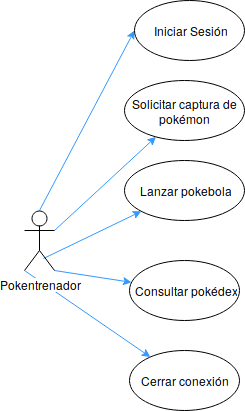
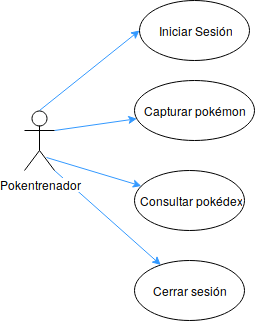
--

diff --git a/p02/documentos/proyecto2.tex b/p02/documentos/proyecto2.tex
@@ -48,9 +48,8 @@ Esta aplicación fue creada con el objetivo de implementar un protocolo de la ca
      Actor & Caso de uso & Descripción \\
      \hline
      Pokentrenador & Iniciar sesión & El usuario se conecta con el servidor y se le muestra el menú principal de la aplicación \\ \hline
-     Pokentrenador & Solicitar captura de pokémon & El usuario solicita al servidor que le muestre un pokémon para capturar \\ \hline
+     Pokentrenador & Capturar pokémon & El usuario solicita al servidor que le muestre un pokémon y decide si intenta capturarlo (con un número finito de intentos) o no\\ \hline
      Pokentrenador & Consultar pokedex & El usuario hace una consulta para buscar un pokémon en su pokédex \\ \hline
-     Pokentrenador & Lanzar pokebola & El usuario intenta capturar el pokémon que le mostró el servidor, con un número de intentos límitado \\ \hline
      Pokentrenador & Cerrar sesión & Cierra la conexión con el servidor \\
      \hline
    \end{tabular}
@@ -176,14 +175,124 @@ Máquina de Estados Finita para el protocolo de la capa de aplicación.
 \subsection{Especificación del ambiente de desarrollo}
 %revisar versiones
 \begin{tabular}{l r l r}
-\textbf{Lenguaje de programación:} & Java & \textbf{versión:} & 1.8 \\
-\textbf{Herramienta de construcción de software:} & Apache Ant & \textbf{versión:} & 1.9.9 \\
-\textbf{Sistema manejador de base de  datos:} & sqlite & \textbf{versión:} & 2.8.17 \\
+  \textbf{Lenguaje de programación:} & Java & \textbf{versión:} & 1.8 \\
+  \textbf{Herramienta de construcción de software:} & Apache Ant & \textbf{versión:} & 1.9.9 \\
+  \textbf{Sistema Manejador de Base de Datos:} & sqlite & \textbf{versión:} & 2.8.17 \\
+  \textbf{Driver de conectividad JDBC:} & sqlite-jdbc & \textbf{versión:}3,16,1\\
+  \textbf{Pruebas Unitarias:} & JUnit & Hamcrest \\
 \end{tabular}
-  \subsection{Diagrama de clases (Maybe no, pero al menos mención de la estructura programática del proyecto, lo que sea más fácil jijijijijijij)}
+
+\newpage
+\subsection{Estructura del proyecto}  
+\begin{verbatim}
+.
+|- proyecto2.jar
+|- build
+|- - ConexionBD.class
+|- - redes
+|- - - MultiThreadPrueba.class
+|- - - Mensaje12.class
+|- - - Mensaje21.class
+|- - - ConexionBD.class
+|- - - Mensaje24.class
+|- - - Estado.class
+|- - - ClienteHilo.class
+|- - - FabricaMensaje.class
+|- - - MensajeGenerico.class
+|- - - Pokentrenador$1.class
+|- - - Mensaje15.class
+|- - - Pokentrenador.class
+|- - - Controlador.class
+|- - - test
+|- - - - ControladorTest.class
+|- - - Mensaje10.class
+|- - - Pokeservidor.class
+|- - - Mensaje22.class
+|- - - Proyecto2.class
+|- - - MultiThreadPrueba$Hilo.class
+|- - - Imagen.class
+|- - - Mensaje23.class
+|- - - ClienteHilo$1.class
+|- static
+|- - requirements
+|- - poke_script.py
+|- man
+|- - proyecto2.1
+|- - proyecto2.1.gz
+|- documentos
+|- - proyecto2.out
+|- - proyecto2.log
+|- - graphic
+- - - 
+- - proyecto2.toc
+- - proyecto2.tex
+- - proyecto2.pdf
+- - proyecto2.aux
+- doc
+- - proyecto2.out
+- - proyecto2.log
+- - proyecto2.toc
+- - proyecto2.pdf
+- - proyecto2.aux
+- src
+- - sql
+- - - poke_app_db.sql
+- - redes
+- - - Mensaje10.java
+- - - Estado.java
+- - - MultiThreadPrueba.java
+- - - Pokeservidor.java
+- - - MensajeGenerico.java
+- - - Mensaje15.java
+- - - Imagen.java
+- - - Controlador.java
+- - - Pokentrenador.java
+- - - ClienteHilo.java
+- - - ConexionBD.java
+- - - Mensaje24.java
+- - - test
+- - - - ControladorTest.java
+- - - Mensaje22.java
+- - - Mensaje21.java
+- - - Mensaje23.java
+- - - FabricaMensaje.java
+- - - Mensaje12.java
+- - - Proyecto2.java
+- build.xml
+- arbol.txt
+- lib
+- - junit.jar
+- - hamcrest-core.jar
+- - sqlite-jdbc-3.16.1.jar
+\end{verbatim}
 
 \section{Uso y pruebas del protocolo}
 \subsection{Manual de uso}
-\subsection{Demostración del funcionamiento (por caso de uso ijijisjiajij)}
+\subsubsection{Instalación y conexión de cliente/servidor}
+La aplicación cuenta con una página de manual para sistemas operativos *NIX, en donde se detalla más en el uso de la aplicación con algunos ejemplos sencillos. \\
+Para poder compilar y ejecutar el programa por primera vez, se requiere contar con la versión 1.8 o superior de \texttt{Java} así como la versión 1.9.9 o superior de \texttt{Apache Ant}, entonces puede emplear el comando: \\
+\begin{verbatim}
+[user@host p02] ant 
+\end{verbatim}
+Y el sistema automatizado de \texttt{Apache Ant} generará todos los archivos necesarios para que el programa funcione. En caso de haber errores, el mismo \texttt{Ant} le indicará cuáles son. \\
+
+Una vez compilado, se puede iniciar la aplicación con la instrucción en linea de comando:
+\begin{verbatim}
+[user@host p02] java -jar proyecto2 
+\end{verbatim}
+
+\subsubsection{Inicio de sesión}
+Una vez establecida la conexión entre cliente y servidor, el servidor le pedirá al usuario que ingrese su nombre para poder iniciar sesión o cerrar la conexión entre ambos hosts. Si el nombre de usuario ingresado se encuentra registrado en la base de datos de la aplicación, el servidor le mostrará al usuario con sesión iniciada su menú principal de juego.
+
+\subsubsection{Uso dentro de la aplicación}
+Una vez iniciada la sesión del usuario, éste tendrá acceso a un menú principal en el que se muestre las opciones que le otorga la aplicación, como capturar un pokémon, consultar su pokédex o cerrar sesión. \\
+
+Si el usuario quiere capturar un pokémon, el servidor le mostrará aleatoriamente alguno de los nombres de pokémon registrados y el usuario decidirá si desea o no capturarlo. Si acepta el desafío, tendrá que lograr capturarlo antes de llegar al límite de intentos permitido. \\
+
+Para consultar su pokédex, el usuario deberá ingresar el nombre del pokémon que quiera buscar. Si el pokémon ya fue capturado, se le mostrará la imagen de tal pokémon y recibirá un mensaje de error si el nombre del pokémon no es el correcto o el usuario no lo ha capturado. \\
+
+Si el usuario decide cerrar su sesión, regresará a la pantalla de inicio de la aplicación y se le preguntará si desea iniciar sesión de nuevo o cerrar la conexión entre los hosts. \\
+
+\subsection{Demostración del funcionamiento}
 
 \end{document}
